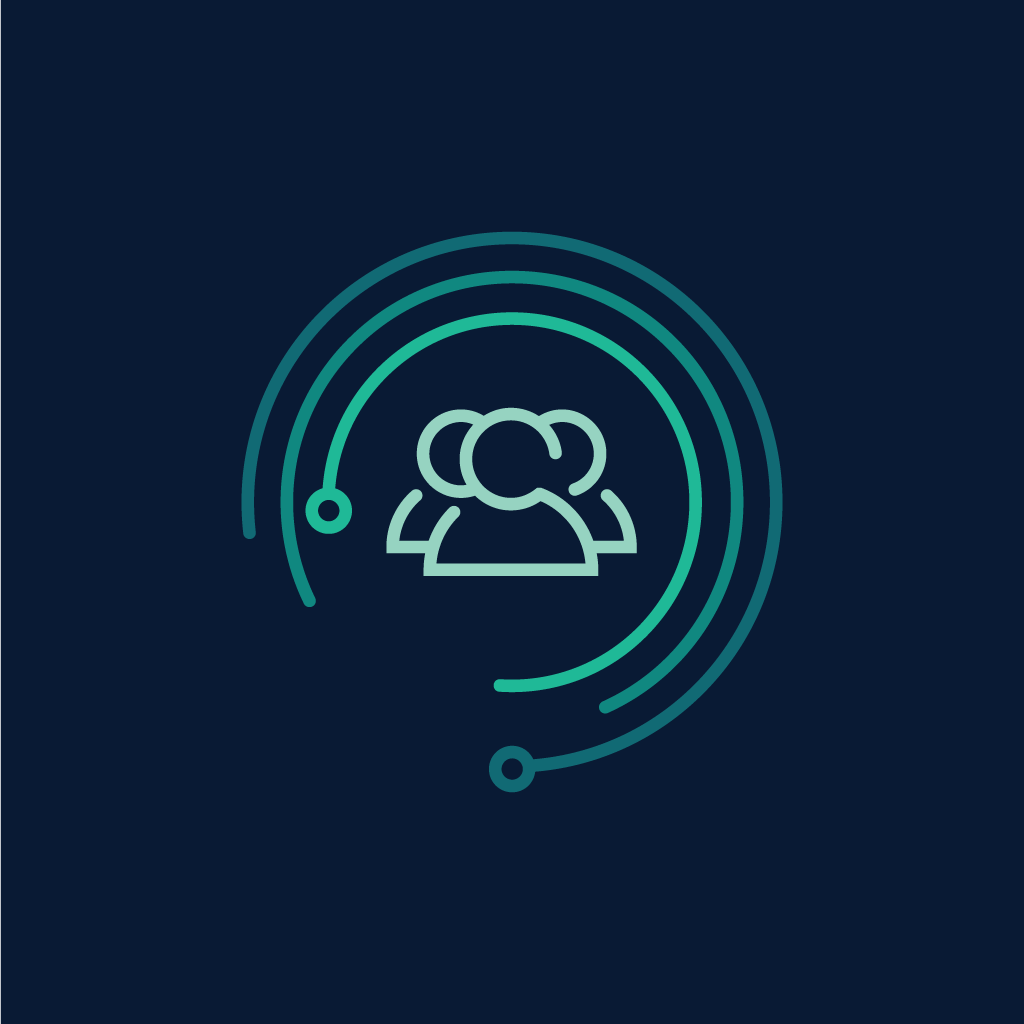
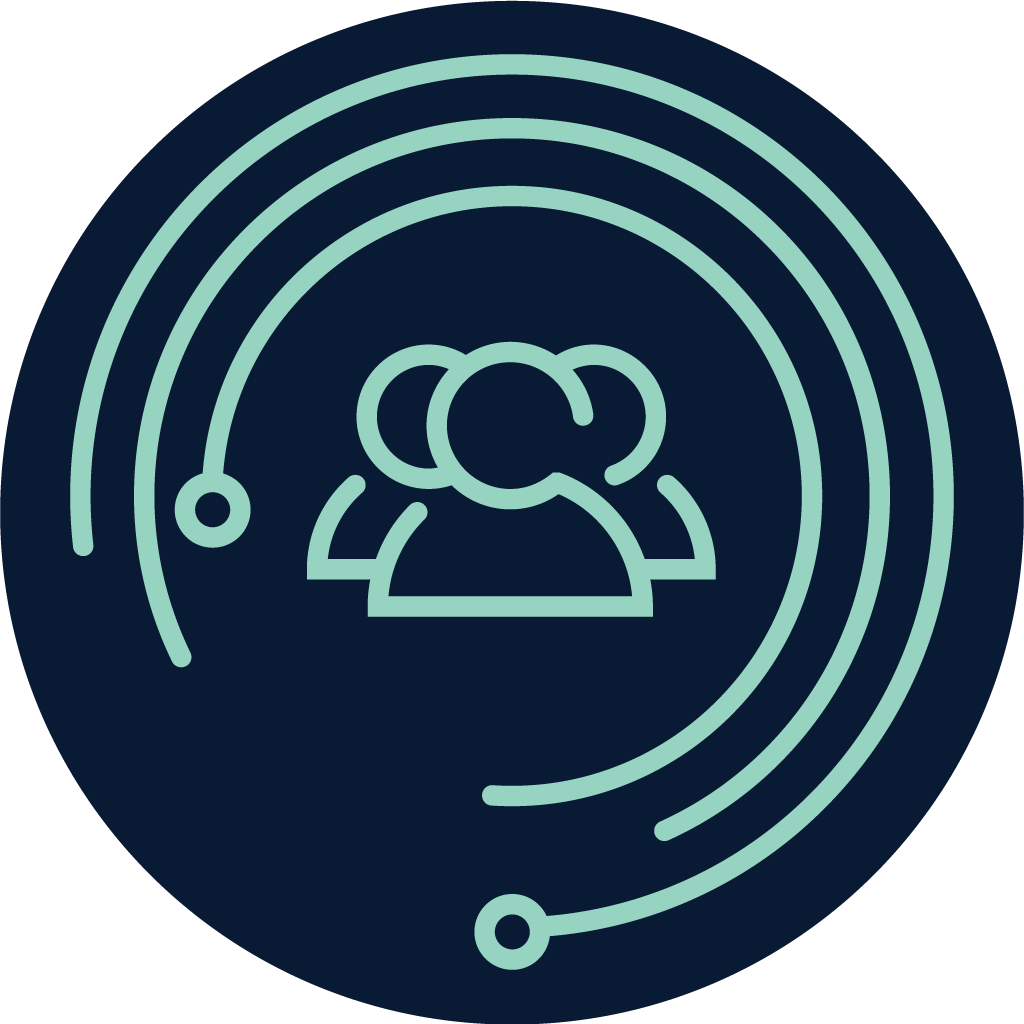
Cambio de icono y fix screen

diff --git a/src/app/app.module.ts b/src/app/app.module.ts
@@ -23,11 +23,13 @@ import { Ionic2RatingModule } from "ionic2-rating";
 // Components
 import { MyApp } from './app.component';
 import { MtListComponent } from "../components/mt-list-component/mt-list.component";
+import { MtFormComponent } from "../components/mt-form/mt-form";
 import { MtCardComponent } from "../components/mt-card-component/mt-card-component";
 import { MtTabsComponent } from "../components/mt-tabs-component/mt-tabs.component";
 import { MtSlideComponent } from "../components/mt-slide-component/mt-slide.component";
 
 // Pages
+import { MtScanPage } from "../pages/mt-scan-page/mt-scan-page";
 import { MtMapsPage } from "../pages/mt-maps-page/mt-maps-page";
 import { MtAboutPage } from "../pages/mt-about-page/mt-about-page";
 import { MtSigninPage } from "../pages/mt-signin/mt-signin";
@@ -65,6 +67,8 @@ import { PushNotificationProvider } from '../providers/push-notification/push-no
     MtSigninPage,
     MtListComponent,
     MtCardComponent,
+    MtFormComponent,
+    MtScanPage
   ],
   imports: [
     BrowserModule,
@@ -93,6 +97,7 @@ import { PushNotificationProvider } from '../providers/push-notification/push-no
     MtFormFeedbackPage,
     MtDetailEventPage,
     MtSigninPage,
+    MtScanPage
   ],
   providers: [
     StatusBar,

diff --git a/src/pages/mt-event-page-2/mt-event-page-2.ts b/src/pages/mt-event-page-2/mt-event-page-2.ts
@@ -9,6 +9,7 @@ import { DataService } from "../../providers/data/data-service";
 import { MtSigninPage } from "../mt-signin/mt-signin";
 import { ActionSheetService } from "../../providers/action-sheet/action-sheet-service";
 import { StorageService } from "../../providers/storage/storage-service";
+import { MtAboutPage } from "../mt-about-page/mt-about-page";
 
 @Component({
   selector: 'page-mt-event-page-2',
@@ -47,6 +48,11 @@ export class MtEventPage_2Page extends BaseComponent {
       title: 'Options',
       buttons: [
         {
+          text: 'About',
+          handler: () => {
+            this.navCtrl.push(MtAboutPage);
+          }
+        }, {
           text: 'Logout',
           handler: () => {
             this.storage.clear('user');

diff --git a/src/pages/mt-event-page-3/mt-event-page-3.ts b/src/pages/mt-event-page-3/mt-event-page-3.ts
@@ -9,6 +9,7 @@ import { DataService } from "../../providers/data/data-service";
 import { MtSigninPage } from "../mt-signin/mt-signin";
 import { ActionSheetService } from "../../providers/action-sheet/action-sheet-service";
 import { StorageService } from "../../providers/storage/storage-service";
+import { MtAboutPage } from "../mt-about-page/mt-about-page";
 
 @Component({
   selector: 'page-mt-event-page-3',
@@ -47,6 +48,11 @@ export class MtEventPage_3Page extends BaseComponent {
       title: 'Options',
       buttons: [
         {
+          text: 'About',
+          handler: () => {
+            this.navCtrl.push(MtAboutPage);
+          }
+        }, {
           text: 'Logout',
           handler: () => {
             this.storage.clear('user');

diff --git a/src/pages/mt-event-page-1/mt-event-page-1.ts b/src/pages/mt-event-page-1/mt-event-page-1.ts
@@ -9,6 +9,7 @@ import { BaseComponent } from "../../components/base-component/base.component";
 import { ToastService } from "../../providers/toast/toast-service";
 import { DataService } from "../../providers/data/data-service";
 import { MtSigninPage } from "../mt-signin/mt-signin";
+import { MtAboutPage } from "../mt-about-page/mt-about-page";
 
 @Component({
   selector: 'page-mt-event-page-1',
@@ -47,6 +48,11 @@ export class MtEventPage_1Page extends BaseComponent {
       title: 'Options',
       buttons: [
         {
+          text: 'About',
+          handler: () => {
+            this.navCtrl.push(MtAboutPage);
+          }
+        }, {
           text: 'Logout',
           handler: () => {
             this.storage.clear('user');

diff --git a/src/components/base-component/base.component.ts b/src/components/base-component/base.component.ts
@@ -1,13 +1,9 @@
-import { Component } from '@angular/core';
 import { Subscription } from "rxjs/Subscription";
 import { Platform } from "ionic-angular";
 import { Network } from "@ionic-native/network";
 
 import { ToastService } from "../../providers/toast/toast-service";
 
-@Component({
-  templateUrl: ''
-})
 export abstract class BaseComponent {
 
   private subscriptions: Subscription[] = [];

diff --git a/src/pages/mt-maps-page/mt-maps-page.ts b/src/pages/mt-maps-page/mt-maps-page.ts
@@ -36,8 +36,7 @@ export class MtMapsPage {
   openMaps(address: string) {
     this.launchNavigator.navigate(address)
       .then(
-        success => console.log('Launched navigator'),
-        error => console.log('Error launching navigator', error)
+        success => console.log('Launched navigator')
       );
   }
 }
